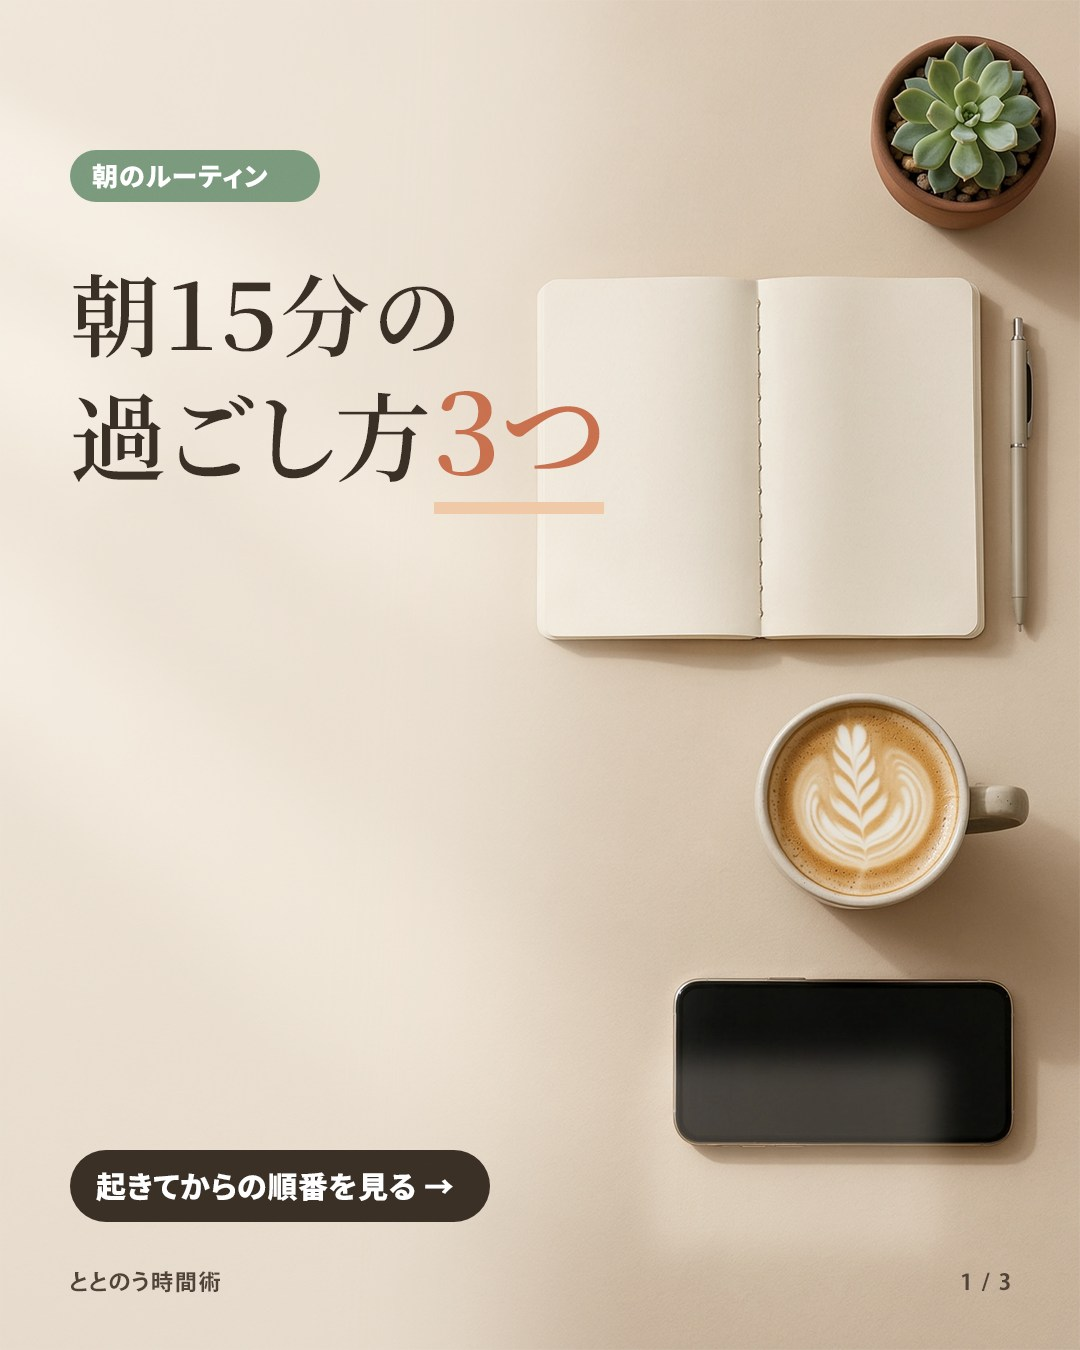
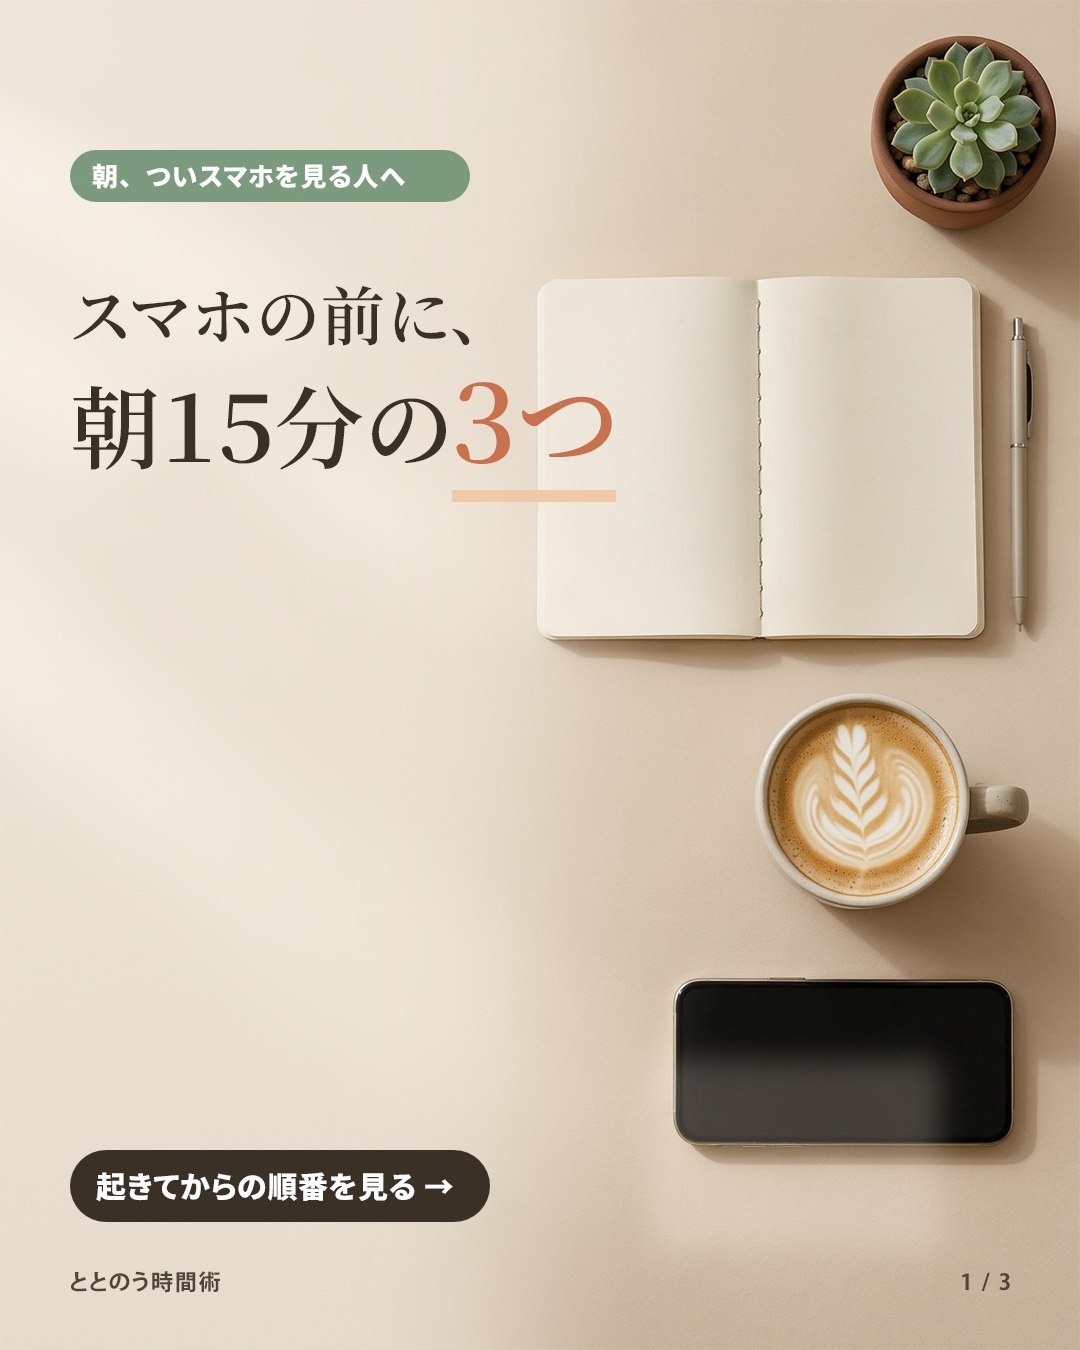
Portfolio remake 5: carousel v6 (86), who-it's-for cover, timed steps, copyable memo; site swapped locally

Changed region(s): [[0.0611, 0.1867, 0.5806, 0.4044], [0.0917, 0.0933, 0.4583, 0.1556]]

diff --git a/index.html b/index.html
@@ -376,12 +376,12 @@ html.noanim .reveal{ opacity:1; transform:none; transition:none; }
       <div class="work ptext" data-cat="ig"><div class="note reveal"><h4>インスタで気をつけていること</h4><p>投稿は一覧で切り取られても主役が見えるように、ストーリーズは画面の上下に重なるアイコンや返信欄をよけて文字を置きます。</p>
         <ul><li>投稿<b>1080×1350</b></li><li>ストーリーズ<b>1080×1920</b></li><li>カルーセル<b>最大10枚まで対応</b></li></ul></div></div>
 
-      <article class="work" data-cat="ig"><button class="pic" type="button"><img src="img/car1.jpg" alt="カルーセル投稿1枚目。朝15分の過ごし方3つの表紙" loading="lazy"></button>
-        <div class="cap"><span class="tag">CAROUSEL 1 ／ 表紙</span><h3>続きを見たくなる表紙</h3><p>大きな見出しと「順番を見る →」で、次の画像へ進んでもらいます。</p></div></article>
+      <article class="work" data-cat="ig"><button class="pic" type="button"><img src="img/car1.jpg" alt="カルーセル投稿1枚目。「朝、ついスマホを見る人へ」「スマホの前に、朝15分の3つ」の表紙" loading="lazy"></button>
+        <div class="cap"><span class="tag">CAROUSEL 1 ／ 表紙</span><h3>続きを見たくなる表紙</h3><p>「朝、ついスマホを見る人へ」で誰に向けた話かを先に伝え、大きな見出しと「順番を見る →」で次の画像へ進んでもらいます。</p></div></article>
       <article class="work" data-cat="ig"><button class="pic" type="button"><img src="img/car2.jpg" alt="カルーセル投稿2枚目。起きてからの15分のコツ" loading="lazy"></button>
-        <div class="cap"><span class="tag">CAROUSEL 2 ／ 中身</span><h3>順番どおりに読める中身</h3><p>起きてからの順に、3つのコツをカードで並べました。</p></div></article>
-      <article class="work" data-cat="ig"><button class="pic" type="button"><img src="img/car3.jpg" alt="カルーセル投稿3枚目。チェックリストと保存のおねがい" loading="lazy"></button>
-        <div class="cap"><span class="tag">CAROUSEL 3 ／ まとめ</span><h3>保存したくなるまとめ</h3><p>チェックリストのあとに、保存をうながすボタンを置きました。</p></div></article>
+        <div class="cap"><span class="tag">CAROUSEL 2 ／ 中身</span><h3>順番どおりに読める中身</h3><p>時間の目安(0〜2分・2〜5分・5〜15分)と行動を分けて、起きてからの順番どおりに読めるようにしました。</p></div></article>
+      <article class="work" data-cat="ig"><button class="pic" type="button"><img src="img/car3.jpg" alt="カルーセル投稿3枚目。明日の朝に書くメモの例と保存のおねがい" loading="lazy"></button>
+        <div class="cap"><span class="tag">CAROUSEL 3 ／ まとめ</span><h3>保存したくなるまとめ</h3><p>そのまま真似できるメモの例を見せてから、保存のボタンを最後に置きました。</p></div></article>
 
       <!-- バナー -->
       <div class="group-t" data-cat="bn"><h3>広告バナー</h3><span>1つのデザインを4サイズに展開</span></div>
